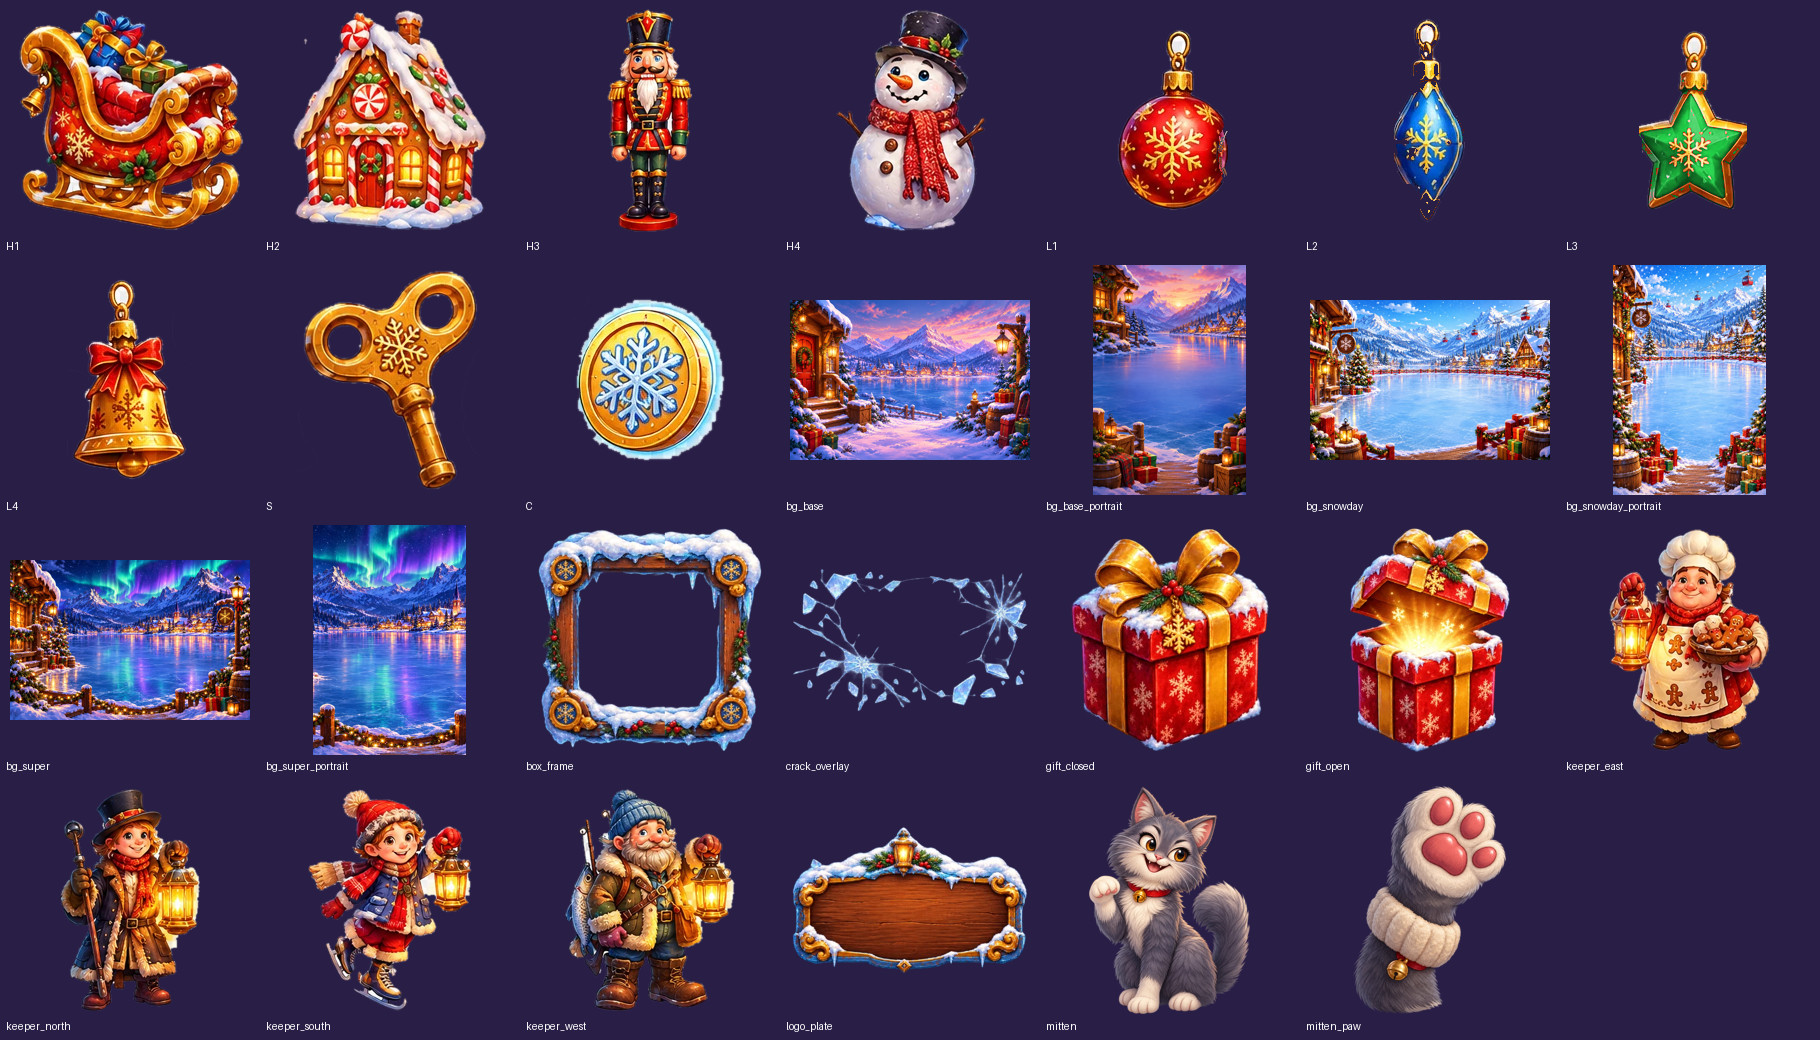
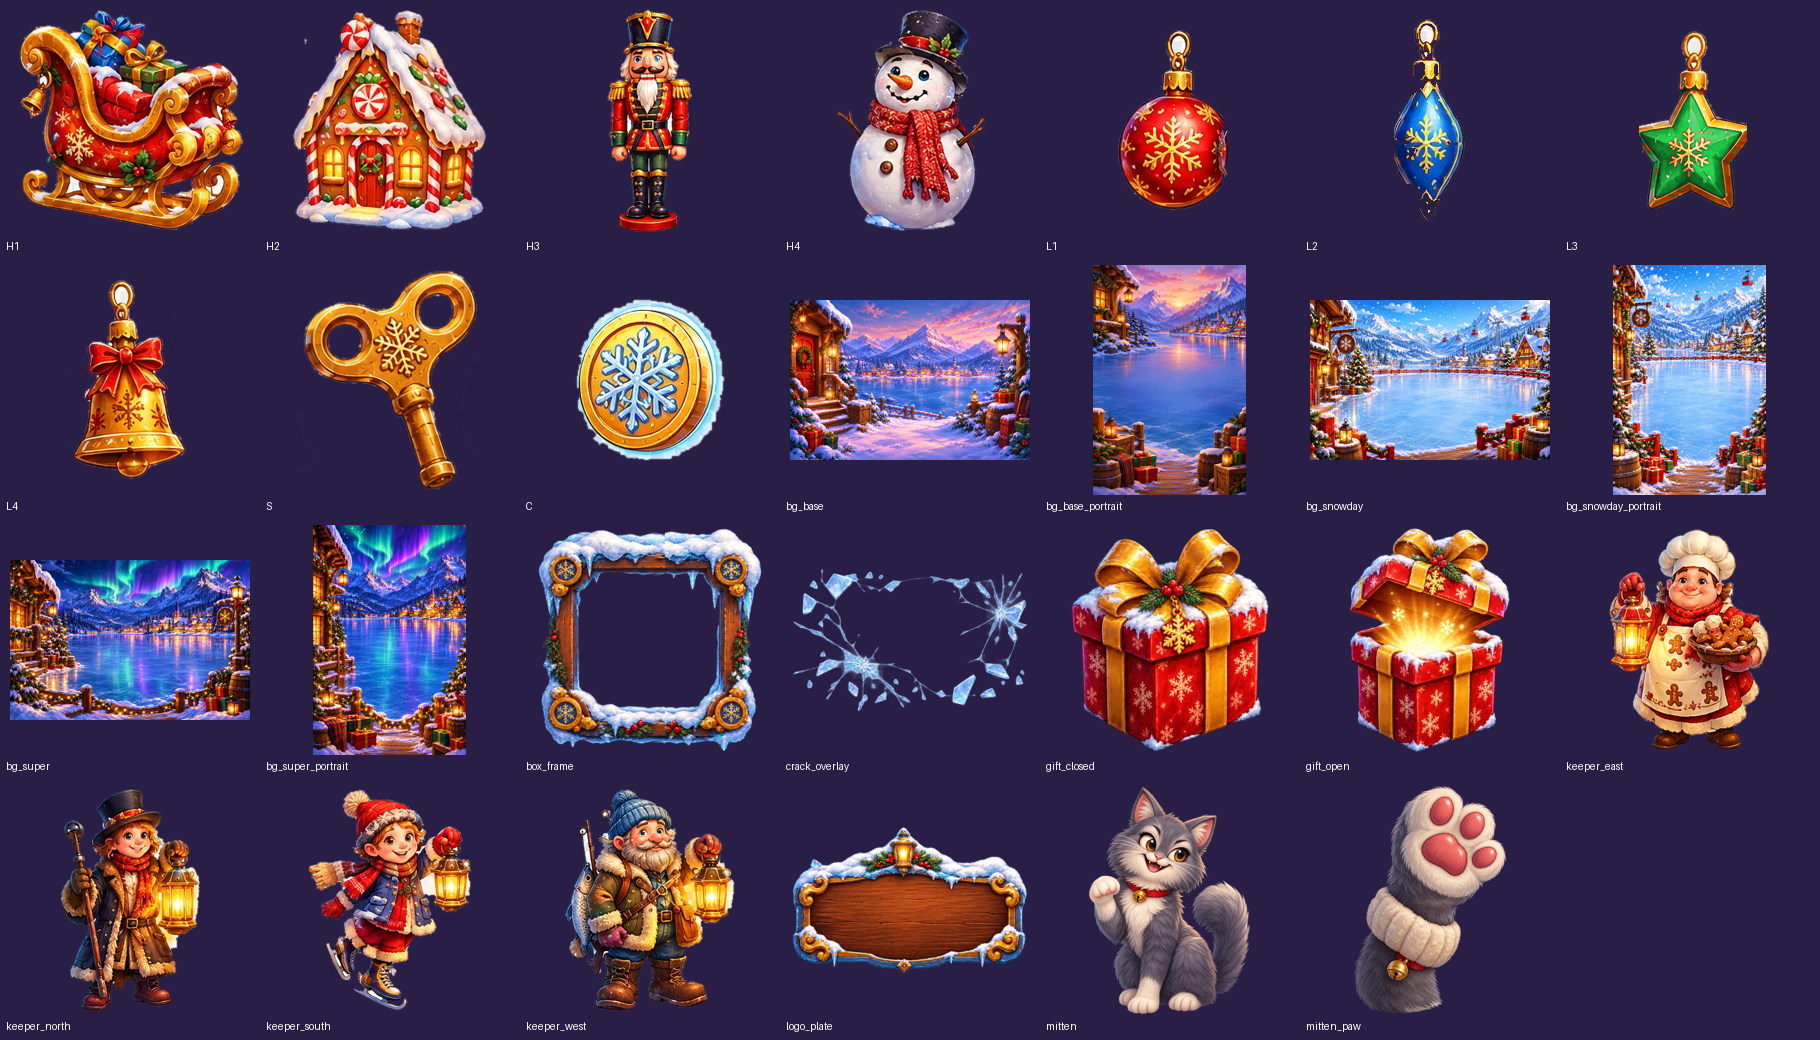
Whisker Tilt art: final tall Super Snow Day background, art set complete
All 27 assets are now built from art/whisker_tilt/source/ by slice_sheet.py.

Claude-Session: https://claude.ai/code/session_01WRY5mQZ5AGs7boQ44B2BKn

Changed region(s): [[0.1538, 0.4923, 0.2769, 0.7385]]

diff --git a/art/whisker_tilt/slice_sheet.py b/art/whisker_tilt/slice_sheet.py
@@ -64,13 +64,13 @@ SHEETS = {
     "sheet_2": ("alpha", SHEET_2),
     "paw": ("alpha", {"mitten_paw": (395, 135, 1126, 1222)}),
     "mitten": ("alpha", {"mitten": (0, 0, 1024, 1536)}),
-    # Full-size backgrounds, one file each, used as they are. Until a tall Super Snow Day
-    # arrives, bg_super_portrait is the middle of the wide one, scaled to 1024x1536.
+    # Full-size backgrounds, one file each, used as they are.
     "bg_base": ("opaque", {"bg_base": (0, 0, 1536, 1024)}),
     "bg_base_portrait": ("opaque", {"bg_base_portrait": (0, 0, 1024, 1536)}),
     "bg_snowday": ("opaque", {"bg_snowday": (0, 0, 1536, 1024)}),
     "bg_snowday_portrait": ("opaque", {"bg_snowday_portrait": (0, 0, 1024, 1536)}),
-    "bg_super": ("opaque", {"bg_super": (0, 0, 1536, 1024), "bg_super_portrait": (426, 0, 1109, 1024)}),
+    "bg_super": ("opaque", {"bg_super": (0, 0, 1536, 1024)}),
+    "bg_super_portrait": ("opaque", {"bg_super_portrait": (0, 0, 1024, 1536)}),
 }
 PER_PIXEL = {"crack_overlay"}
 # The three baubles touch on the sheet: drop the neighbour's colour from each crop

diff --git a/concepts/whisker-tilt/ART_PROMPTS.md b/concepts/whisker-tilt/ART_PROMPTS.md
@@ -5,12 +5,12 @@
 ## Status
 
 Cut into `art/whisker_tilt/raw/` by
-`python art/whisker_tilt/slice_sheet.py art/whisker_tilt/source/{sheet_1,sheet_2,paw}.webp`
+`python art/whisker_tilt/slice_sheet.py art/whisker_tilt/source/*.webp` (sheet_1 before sheet_2)
 (preview: `python art/whisker_tilt/contact_sheet.py` → `art/whisker_tilt/contact_sheet.png`).
 
-| Done (26) | Stand-in (1) |
-|---|---|
-| H1–H4, L1–L4, S, C, the four keepers (sheet 1); `box_frame`, `gift_closed`, `gift_open`, `crack_overlay`, `logo_plate` (sheet 2); `mitten_paw`; `mitten`; full-size `bg_base`, `bg_base_portrait`, `bg_snowday`, `bg_snowday_portrait`, `bg_super` | `bg_super_portrait`: for now the middle of `bg_super`, scaled to 1024×1536; the real one replaces it when its file arrives |
+All 27 images are done: H1–H4, L1–L4, S, C and the four keepers (sheet 1); `box_frame`,
+`gift_closed`, `gift_open`, `crack_overlay`, `logo_plate` (sheet 2); `mitten_paw`; `mitten`; and
+the six full-size backgrounds (`bg_base`, `bg_snowday`, `bg_super`, each wide and `_portrait`).
 
 The backgrounds moved from the toyshop shelf to a snowy village by a frozen lake, with Mitten
 sitting on the crates at the left. That reads as the village *inside* the snow box, so the
